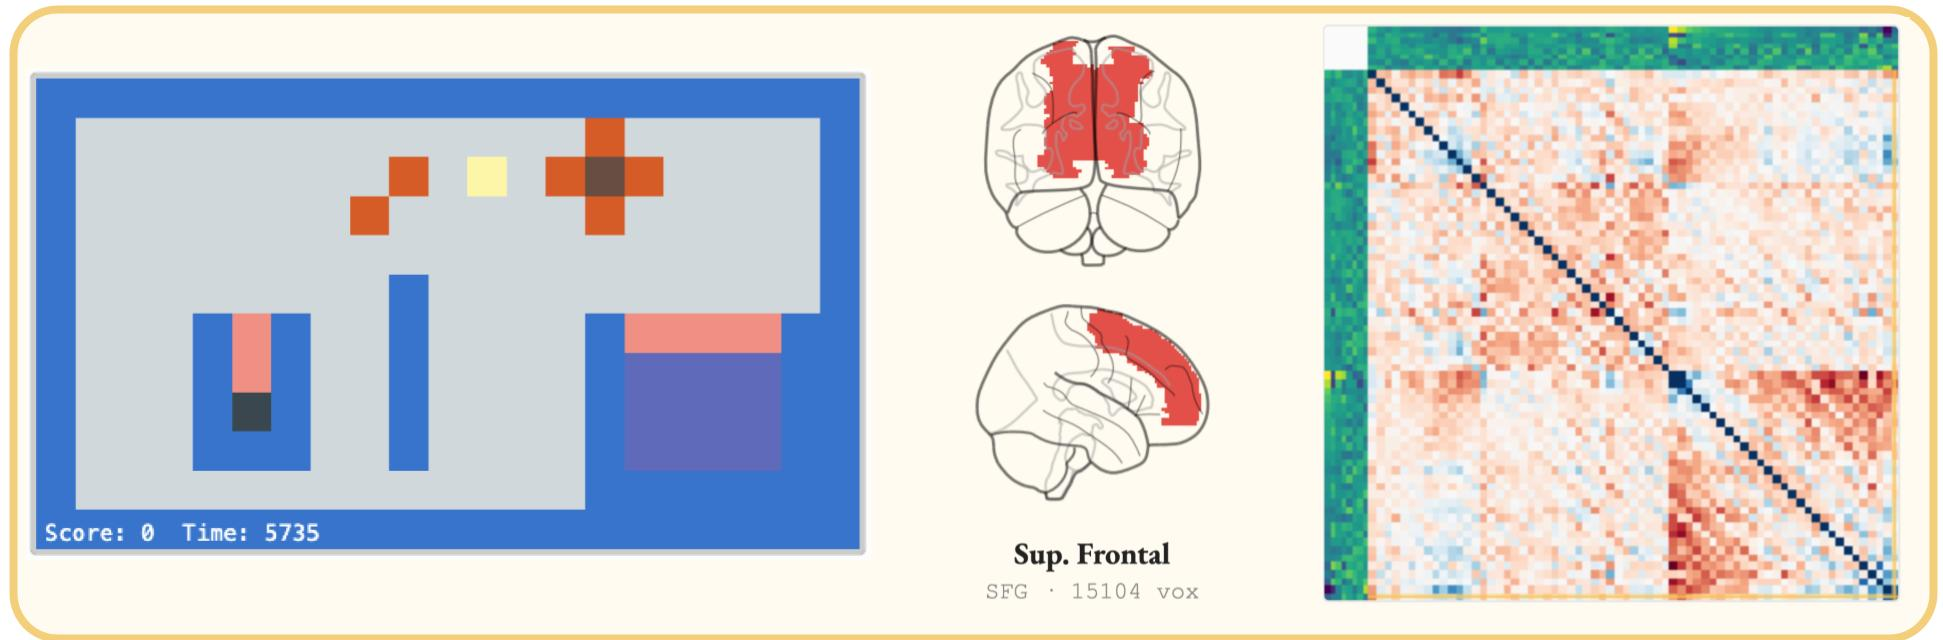
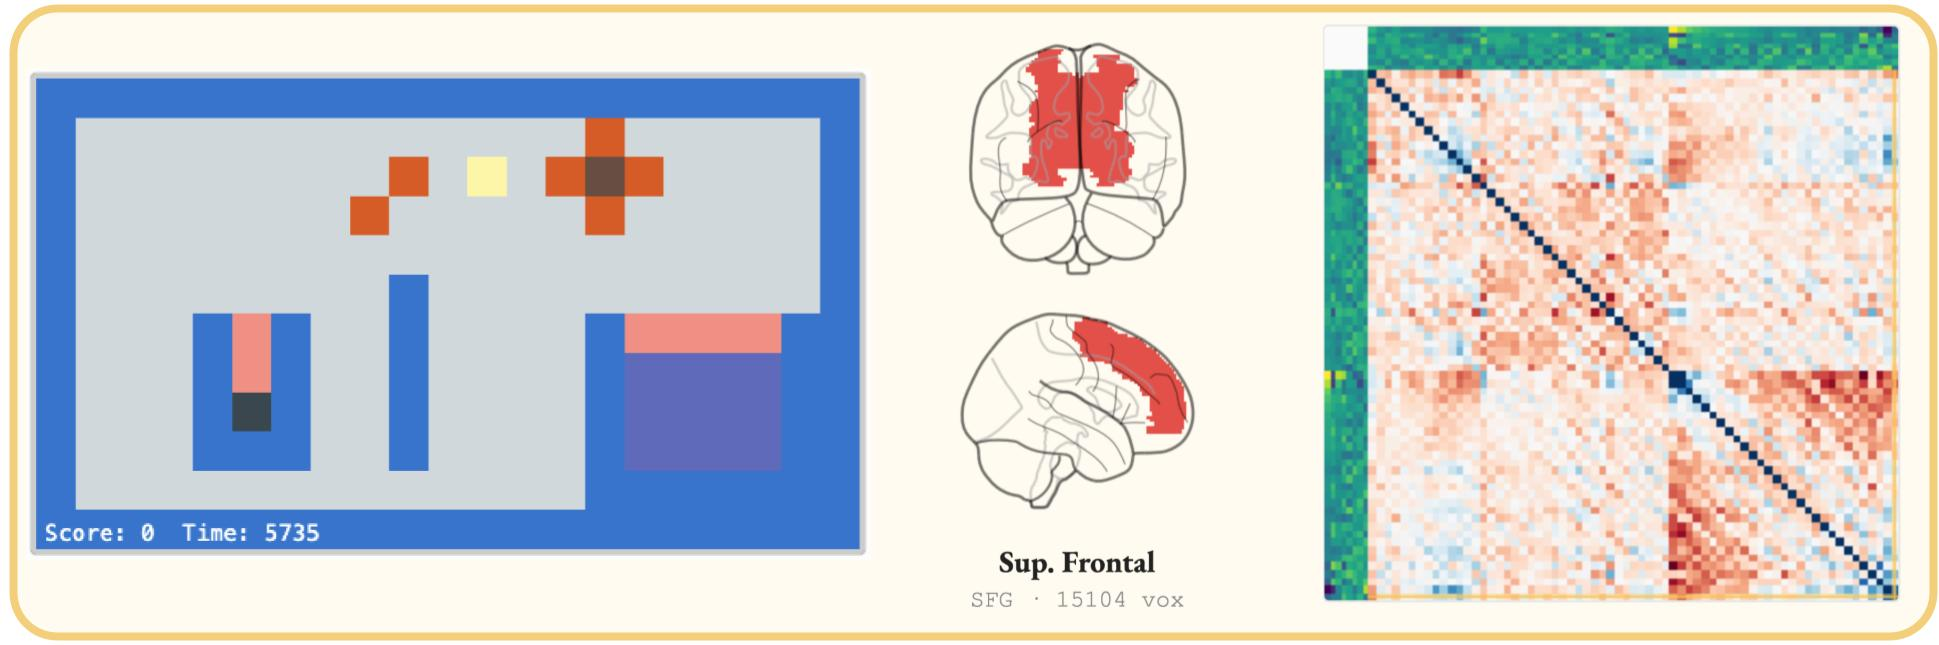
Update Reason to Play thumbnail crop, add [DEMO] flag

diff --git a/index.html b/index.html
@@ -249,7 +249,7 @@
 
         <a href="https://botcs.github.io/reason-to-play/">
             <div class="project-card">
-                <b>Reason to Play</b>:
+                <b>[DEMO] Reason to Play</b>:
                 Do frontier reasoning models learn novel grid-world games the way humans do, given no rules?
                 We benchmark 8 frontier LRMs against 32 fMRI-scanned humans and deep-RL baselines: the strongest
                 models match human rule-discovery and curriculum progression, and their hidden states predict human